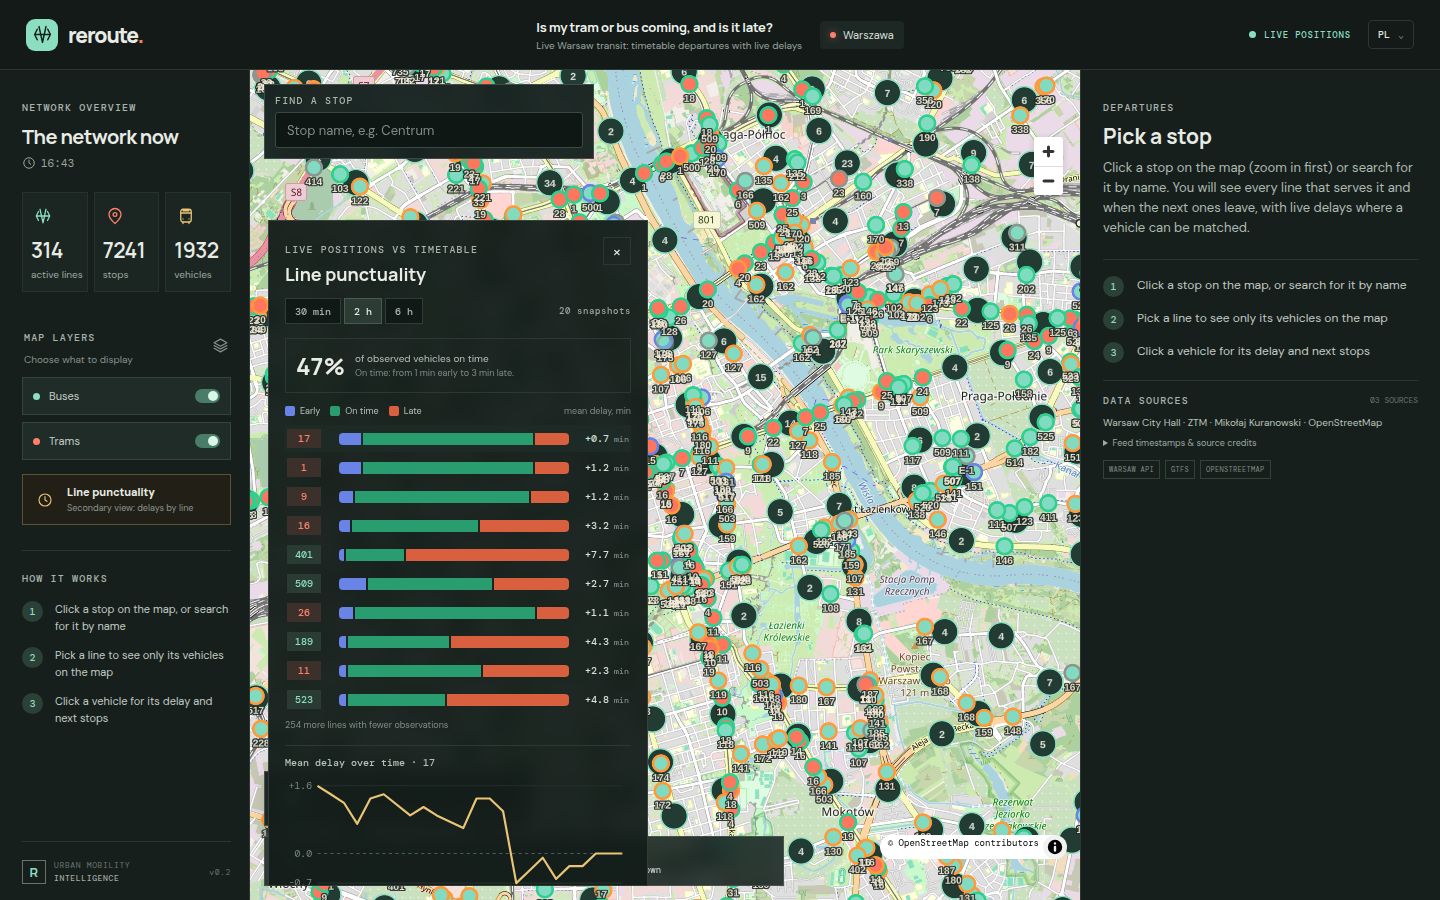
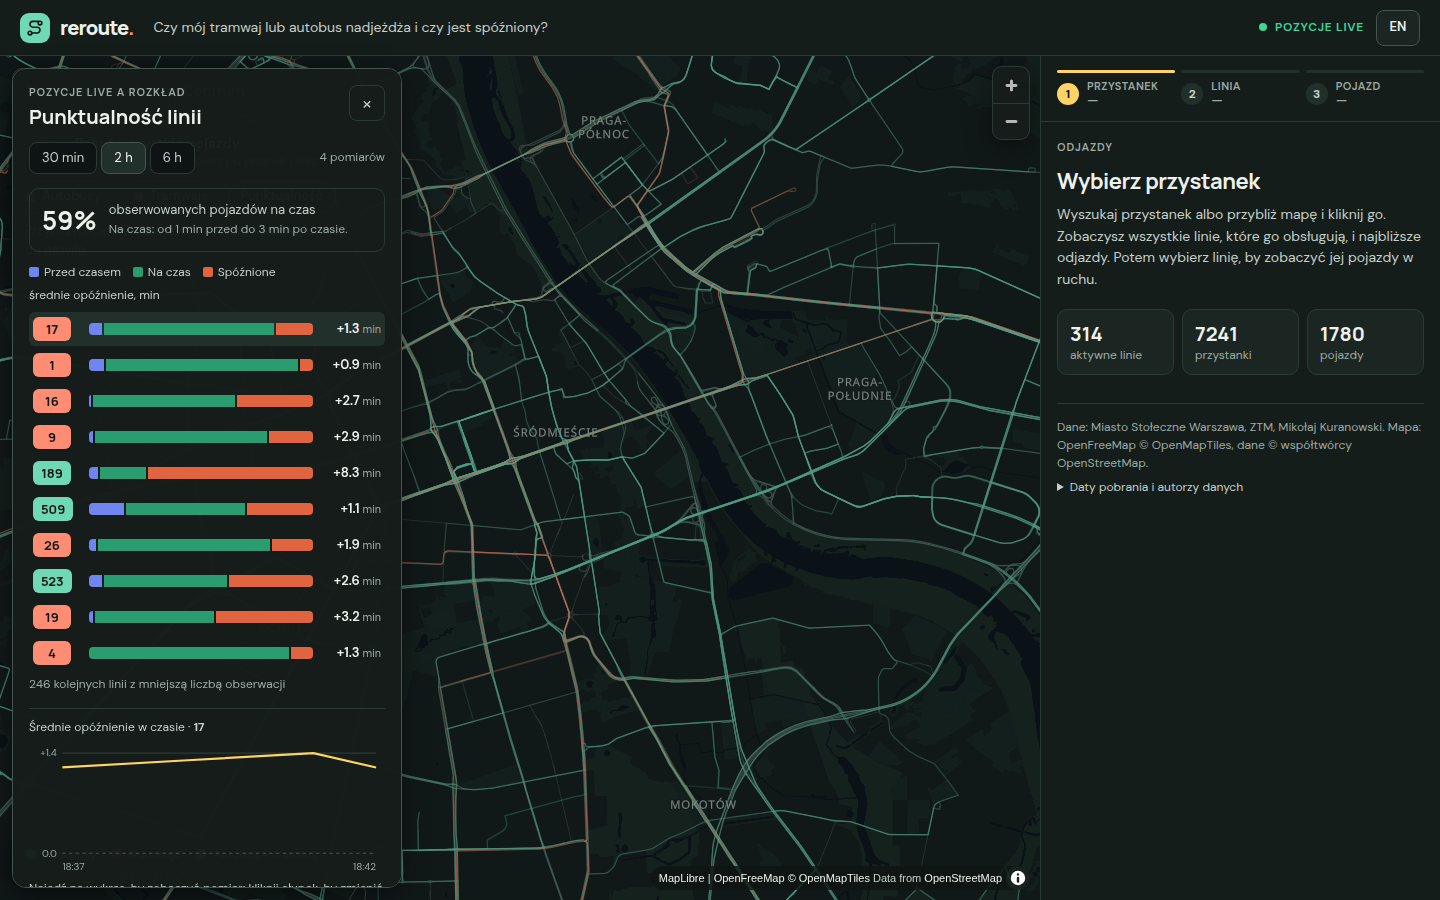
Document the new UI and replace the screenshots

diff --git a/README.md b/README.md
@@ -1,6 +1,6 @@
 # Reroute
 
-**A live Warsaw transit map that answers one question: is my tram or bus coming, and is it late?** Click a stop to see every line serving it with the next timetable departures and, where a live vehicle of that trip can be matched, its delay; click a line to see only its route and moving vehicles; click a vehicle for its delay against the schedule and its next stops. Underneath, a collector records every vehicle observation and stop arrival so a delay-prediction model can be trained later.
+**A live Warsaw transit map that answers one question: is my tram or bus coming, and is it late?** Click a stop to see every line serving it with the next timetable departures and, where a live vehicle of that trip can be matched, its delay; pick a line to see its route and its moving vehicles; click a vehicle for its delay against the schedule and its next stops. Underneath, a collector records every vehicle observation and stop arrival so a delay-prediction model can be trained later.
 
 [![CI](https://github.com/MaciejZiel/Reroute/actions/workflows/ci.yml/badge.svg)](https://github.com/MaciejZiel/Reroute/actions/workflows/ci.yml)
 [![License: MIT](https://img.shields.io/badge/license-MIT-green.svg)](LICENSE)
@@ -8,27 +8,38 @@
 ![FastAPI + PostGIS](https://img.shields.io/badge/FastAPI-PostGIS-009688.svg)
 ![React + MapLibre](https://img.shields.io/badge/React-MapLibre-3178c6.svg)
 
-![Plac Zbawiciela: lines serving the stop with next departures and live delays](docs/screenshots/stop-departures.png)
+![The calm default view: a muted dark basemap, quiet route lines and no vehicles until you ask for them](docs/screenshots/overview.png)
 
 ## What it does
 
-- **Stop panel.** Click a stop on the map (or search by name, diacritics-insensitive) and see all lines at the station, each with its next departures from the ZTM GTFS timetable. Departures with a matched live vehicle show the delay and the expected time; late vehicles stay listed until they pass, vehicles that already passed disappear.
-- **Line focus.** Click a line: the map highlights its route and stops, hides all other vehicles and refreshes that line's vehicles every 15 seconds. Service alerts for the line are shown.
+- **Three steps: stop, line, vehicle.** A progress rail at the top of the panel shows where you are; finished steps are clickable to go back. On a phone the panel is a bottom sheet (tap or drag the handle between peek, half and full height).
+- **Quiet by default.** No vehicles are drawn until you pick a line. A single switch, "Show all vehicles" (off by default), draws the whole fleet as small unlabelled dots for those who want the city-wide picture; names appear only when zoomed in.
+- **Stop panel.** Search by name (diacritics-insensitive) or zoom in and click a stop; see all lines at the station with their next timetable departures. Departures with a matched live vehicle show the delay and the expected time; late vehicles stay listed until they pass, vehicles that already passed disappear.
+- **Mode-aware stop icons.** Bus stops are mint, tram stops coral and stops served by both are split; a small glyph says which. Stops are hidden at city zoom (the route lines carry the overview), thin out by collision as you zoom in, get names from zoom 16 and the selected station is highlighted in gold with a single label.
+- **Line focus.** Pick a line: the map highlights its route and stops and shows only that line's vehicles, with the line number on each, a heading wedge and the delay colour as the outline. Vehicles glide between the 15-second updates. When you came via a stop, a switch limits the view to "Heading to my stop" (the live vehicles that still have a departure at that stop, so direction is handled by the timetable) or "All of this line". Service alerts are shown.
 - **Vehicle detail.** Click a vehicle: delay against the timetable, status (waiting at the first stop, off route, stale position) and the next stops with scheduled and expected times.
-- **Delay colours everywhere.** Vehicle outlines are green (on time), orange (more than 3 min late), blue (more than 1 min early) or grey (unknown).
+- **Delay colours.** Vehicle outlines are green (on time), orange (more than 3 min late), blue (more than 1 min early) or grey (unknown).
 - **Punctuality (secondary).** Per-line share of early, on-time and late vehicles and a delay trend, from the per-minute rollup the collector writes.
 - **Bilingual, responsive UI** (Polish and English; on a phone the panel sits under the map).
 - **Data pipeline for prediction.** The collector stores per-vehicle observations, derived stop arrival events and service alerts; `app/features.py` exports leak-free training rows and `/api/predictions` is the contract a trained model plugs into (today: the current delay persists).
 
-| Line focus | Vehicle detail |
+| All vehicles (switch on) | Stop selected |
 | --- | --- |
-| ![Only line 4 is shown: route, stops and live vehicles](docs/screenshots/line-live.png) | ![Vehicle 3622 is 5 minutes late, with next stops and expected times](docs/screenshots/vehicle-detail.png) |
+| ![The whole fleet as small dots, no labels at city zoom](docs/screenshots/all-vehicles.png) | ![Centrum station highlighted with mode-aware stop icons and the lines serving it](docs/screenshots/stop.png) |
 
-| Punctuality (secondary view) | Mobile |
+| Line focus | Only vehicles heading to my stop |
 | --- | --- |
-| ![Share of early, on-time and late vehicles per line and a delay trend](docs/screenshots/punctuality.png) | ![Stop panel under the map on a phone](docs/screenshots/mobile.png) |
+| ![Tram 18: route, stops and all of its live vehicles](docs/screenshots/line.png) | ![The same line limited to the vehicles that still have to reach the selected stop](docs/screenshots/line-heading.png) |
 
-Screenshots are from the live Warsaw data on 13 October 2026.
+| Vehicle detail | Punctuality (secondary view) |
+| --- | --- |
+| ![A tram with its delay against the timetable and next stops](docs/screenshots/vehicle.png) | ![Share of early, on-time and late vehicles per line and a delay trend](docs/screenshots/punctuality.png) |
+
+| Phone: stop | Phone: line |
+| --- | --- |
+| ![Bottom sheet over the map with the lines at the stop](docs/screenshots/mobile-stop.png) | ![Line focus with the bottom sheet at half height](docs/screenshots/mobile-line.png) |
+
+Screenshots are from the live Warsaw data on 13 October 2026, taken with `playwright-cli` against a local run.
 
 ## Architecture
 
@@ -48,7 +59,7 @@ See [docs/design.md](docs/design.md) for the data model, retention, the collecto
 
 - **Backend:** Python 3.12, FastAPI, SQLAlchemy 2, GeoAlchemy2, Shapely, [gtfs-rt-kit](https://github.com/MaciejZiel/gtfs-rt-kit)
 - **Database:** PostgreSQL 16 with PostGIS 3.5 (daily and monthly partitions for observations and arrivals)
-- **Frontend:** React 19, TypeScript, Vite, MapLibre GL, OpenStreetMap tiles
+- **Frontend:** React 19, TypeScript, Vite, MapLibre GL, OpenFreeMap vector tiles (OpenStreetMap data) with a custom dark style; oxlint and Vitest
 - **Tooling:** pytest, ruff, Docker Compose, GitHub Actions
 
 ## Quick start
@@ -104,6 +115,18 @@ uv run pytest -q           # database tests are skipped unless TEST_DATABASE_URL
 TEST_DATABASE_URL=postgresql+psycopg://user:pass@localhost:5432/reroute_test uv run pytest -q   # all 58
 uv run ruff check . && uv run ruff format --check .
 ```
+
+Frontend:
+
+```bash
+cd frontend
+npm ci
+npm run lint        # oxlint
+npm test            # vitest
+npm run build       # type check + production build
+```
+
+To run the dev server against a backend without CORS set-up: `API_PROXY_TARGET=http://localhost:8000 VITE_API_URL= npm run dev`.
 
 The `TEST_DATABASE_URL` database must be named `*_test` and have PostGIS available: it is wiped. Without it the pure tests still run: service-day and DST arithmetic, vehicle projection, delays and arrival events (after-midnight trips, the 25 October DST night, loop lines, gaps), a trimmed recording of the real Warsaw feed against its timetables (`backend/tests/fixtures/`), GTFS parsing, features and the predictor seam. The database tests cover the import and migrations, partitions, idempotent writes, state restore after a restart, alerts, incremental backfill, and the API (search, departures with live/late/passed/stale vehicles, 24:xx trips and DST, 503/404, predictions). CI runs them against a PostGIS service plus the frontend type check and build.
 
@@ -174,14 +197,14 @@ Departure lookups use `pattern_stops(stop_id)`, `trip_schedules(pattern_id, serv
 - Delay estimates use straight lines between stops rather than the route shape, and dwell times are not modelled. Arrival times are linear interpolations between observations (typically 30 s apart).
 - The departure from the first stop is not recorded as an arrival event (the layover hides it).
 - No holiday calendar feature yet; a service-date lookup from `calendar_dates.txt` would add it.
-- The map shows the whole fleet at once, which is dense at city zoom; clustering vehicles is a possible next step.
-- Tests cover the pure derivation, storage, backfill and API against PostGIS; there are no frontend tests yet.
+- The whole-fleet view is a deliberate opt-in: it is about 1,800 dots at city scale. "Heading to my stop" relies on the stop's departure list (next 2 hours, 10 per line), so a vehicle further away than that is not counted.
+- Tests cover the pure derivation, storage, backfill and API against PostGIS; the frontend has unit tests for the vehicle filtering and the palette contrast.
 
 ## Data and attribution
 
 - Warsaw schedules, routes and stops are provided by ZTM Warsaw in GTFS, distributed by Mikołaj Kuranowski: <https://mkuran.pl/gtfs/>. The feed's `attributions.txt` is retained and exposed by the API.
 - Live positions are published by Miasto Stołeczne Warszawa and distributed as GTFS-Realtime by Mikołaj Kuranowski: <https://mkuran.pl/gtfs/>. The app displays the feed timestamp and city source link; no API key is required. The test fixtures contain a short trimmed recording of this feed and the matching ZTM timetables, with the same attribution.
-- Base map © OpenStreetMap contributors. Map tiles are loaded from `tile.openstreetmap.org`; attribution and caching requirements apply: <https://operations.osmfoundation.org/policies/tiles/>.
+- Base map: vector tiles from [OpenFreeMap](https://openfreemap.org) (free public instance, no API key, no request limits, commercial use allowed; attribution required and shown on the map), © [OpenMapTiles](https://www.openmaptiles.org/), data © OpenStreetMap contributors (ODbL). The dark style is drawn in `frontend/src/basemap.ts`. If you self-host the tiles, point `url` and `glyphs` there at your own instance.
 
 Source code, comments and technical documentation are in English.
 
